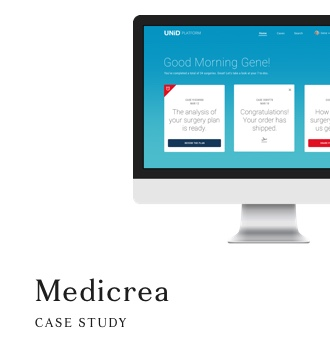
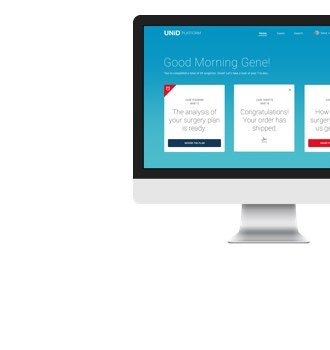
Project hover state on homepage

Changed region(s): [[0.0909, 0.8, 0.5152, 0.8857], [0.0909, 0.8857, 0.3939, 0.9429]]

diff --git a/www/index.html b/www/index.html
@@ -105,10 +105,14 @@
 		<div class="container">
 			<div class="row flex-items-sm-around">
 				<div class="col-md">
-					<p class="text-right"><a href="/case-study/medicrea.html"><img class="wow animated fadeInUpSmall" src="/img/home/medicrea.jpg" alt="Medicrea"></a></p>
+					<p class="text-right"><a class="proj wow animated fadeInUpSmall" href="/case-study/medicrea.html"><img class="" src="/img/home/medicrea.jpg" alt="Medicrea">
+						<span class="proj-title">Medicrea <span class="proj-type">Case Study</span></span>
+					</a></p>
 				</div>
 				<div class="col-md">
-					<p class="text-left"><a href="/case-study/onego.html"><img class="wow animated fadeInDownSmall" src="/img/home/onego.jpg" alt="OneGo"></a></p>
+					<p class="text-left"><a class="proj wow animated fadeInDownSmall" href="/case-study/onego.html"><img class="" src="/img/home/onego.jpg" alt="OneGo">
+						<span class="proj-title">OneGo <span class="proj-type">Case Study</span></span>
+					</a></p>
 				</div>
 			</div>
 		</div>

diff --git a/src/sass/components/_home.scss b/src/sass/components/_home.scss
@@ -105,7 +105,43 @@ body.home{
 	background: transparent url(/img/confetti-bottom.png) center bottom repeat-x scroll;
 	padding:100px 0;
 }
+.proj{
+	position: relative;
+	display: inline-block;
+	// border:3px solid transparent;
+	img{
+		transition:opacity 0.35s ease;
+	}
+	&:hover{
+		-webkit-box-shadow:inset 0px 0px 0px 3px #fff;
+    	-moz-box-shadow:inset 0px 0px 0px 3px #fff;
+    	box-shadow:inset 0px 0px 0px 3px #fff;
+		img{
+			opacity:0;
+		}
+		.proj-title{
+			color:white;
+		}
+	}
+}
 
+.proj-title{
+	transition: color 0.35s ease;
+	font-family: $heading-font;
+	letter-spacing: 2px;
+	text-align: left;
+	font-size: 30px;
+	color:black;
+	padding:20px 35px;
+	position: absolute;
+	bottom:0;
+	left:0;
+}
+.proj-type{
+	font-size: 12px;
+	text-transform: uppercase;
+	display: block;
+}
 .homepage-contact{
 	background-color: #633BB8;
 	padding:100px 0;

diff --git a/www/css/styles.css b/www/css/styles.css
@@ -985,6 +985,48 @@ body.home {
   padding: 100px 0;
 }
 
+.proj {
+  position: relative;
+  display: inline-block;
+}
+
+.proj img {
+  transition: opacity 0.35s ease;
+}
+
+.proj:hover {
+  -webkit-box-shadow: inset 0px 0px 0px 3px #fff;
+  -moz-box-shadow: inset 0px 0px 0px 3px #fff;
+  box-shadow: inset 0px 0px 0px 3px #fff;
+}
+
+.proj:hover img {
+  opacity: 0;
+}
+
+.proj:hover .proj-title {
+  color: white;
+}
+
+.proj-title {
+  transition: color 0.35s ease;
+  font-family: "fortescue-pro";
+  letter-spacing: 2px;
+  text-align: left;
+  font-size: 30px;
+  color: black;
+  padding: 20px 35px;
+  position: absolute;
+  bottom: 0;
+  left: 0;
+}
+
+.proj-type {
+  font-size: 12px;
+  text-transform: uppercase;
+  display: block;
+}
+
 .homepage-contact {
   background-color: #633BB8;
   padding: 100px 0;
